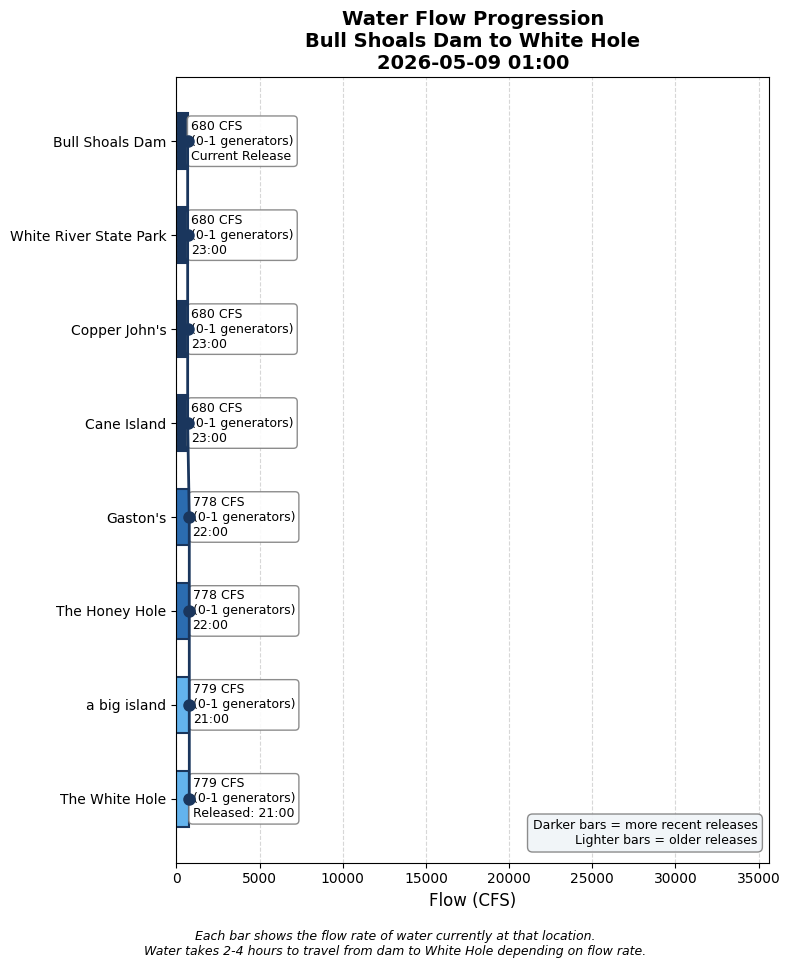
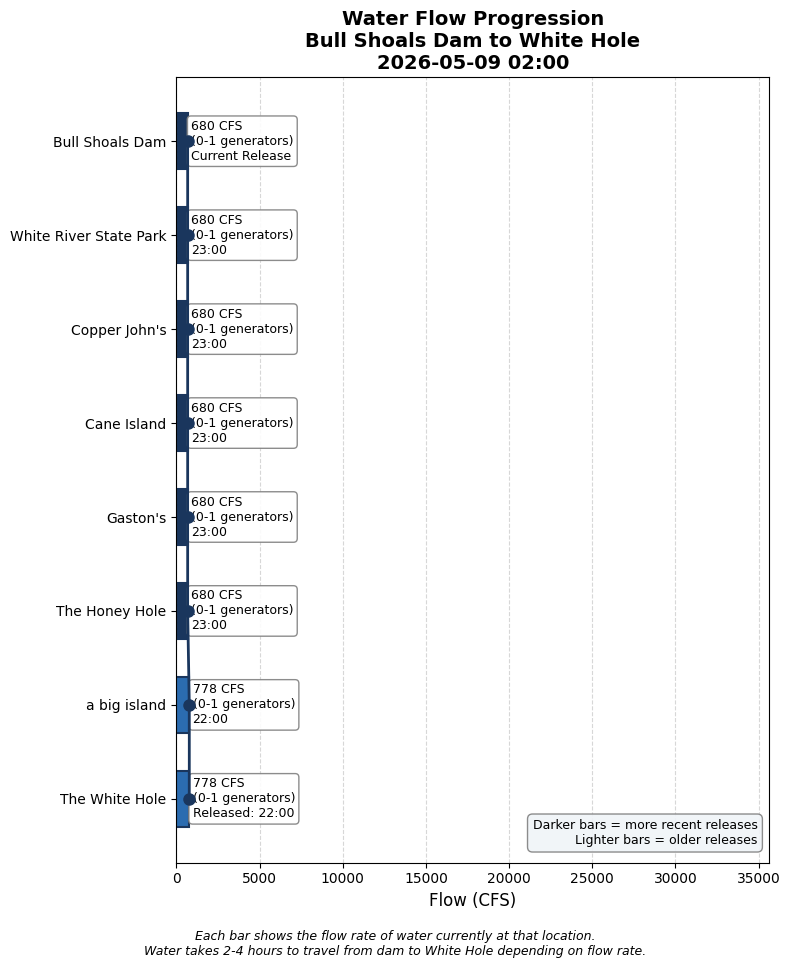
Update water conditions 2026-05-09 02:00

Changed region(s): [[0.2127, 0.4959, 0.3949, 0.8678]]

diff --git a/white_hole_conditions.html b/white_hole_conditions.html
@@ -3,7 +3,7 @@
 <head>
     <meta charset="UTF-8">
     <meta name="viewport" content="width=device-width, initial-scale=1.0">
-    <title>White Hole Conditions - 2026-05-09 01:00</title>
+    <title>White Hole Conditions - 2026-05-09 02:00</title>
     <style>
         body {
             font-family: -apple-system, BlinkMacSystemFont, 'Segoe UI', Roboto, sans-serif;
@@ -148,7 +148,7 @@
 </head>
 <body>
     <h1>White Hole Current Conditions</h1>
-    <p class="subtitle">Saturday, May 09, 2026 at 01:00 AM</p>
+    <p class="subtitle">Saturday, May 09, 2026 at 02:00 AM</p>
 
     <!-- HEADLINE BANNER -->
     <div class="headline-banner">
@@ -160,7 +160,7 @@
     <!-- CURRENT CONDITIONS -->
     <div class="current-conditions">
         <h3>Current Conditions at White Hole</h3>
-        <div class="flow-display">779 CFS</div>
+        <div class="flow-display">778 CFS</div>
         <div class="generator-display">Equivalent to 0-1 generators</div>
         <div class="condition-pills">
             <span class="pill wading">Excellent Wading</span>
@@ -189,6 +189,14 @@
                 <tr><td colspan="3" style="padding: 8px 10px; font-size: 0.8em; font-weight: bold; color: #6b46c1; text-transform: uppercase; letter-spacing: 0.05em; background-color: #f3e8ff;">Scheduled (SWPA forecast)</td></tr>
                 
                     <tr style="background-color: #faf5ff; ">
+                        <td style="padding: 10px; font-weight: bold;">5 AM</td>
+                        <td style="padding: 10px;">723 CFS<br><small style="color: #666;">(0-1 generators: 473 generation + 250 min flow)</small></td>
+                        <td style="padding: 10px;">~8:44 AM
+                            <span style="display: inline-block; margin-left: 6px; padding: 2px 8px; border-radius: 12px; font-size: 0.8em; background-color: #d1fae5; color: #065f46;">Excellent Wading</span>
+                        </td>
+                    </tr>
+                
+                    <tr style="background-color: #faf5ff; ">
                         <td style="padding: 10px; font-weight: bold;">4 AM</td>
                         <td style="padding: 10px;">723 CFS<br><small style="color: #666;">(0-1 generators: 473 generation + 250 min flow)</small></td>
                         <td style="padding: 10px;">~7:44 AM
@@ -212,14 +220,6 @@
                         </td>
                     </tr>
                 
-                    <tr style="background-color: #faf5ff; ">
-                        <td style="padding: 10px; font-weight: bold;">1 AM</td>
-                        <td style="padding: 10px;">723 CFS<br><small style="color: #666;">(0-1 generators: 473 generation + 250 min flow)</small></td>
-                        <td style="padding: 10px;">~4:44 AM
-                            <span style="display: inline-block; margin-left: 6px; padding: 2px 8px; border-radius: 12px; font-size: 0.8em; background-color: #d1fae5; color: #065f46;">Excellent Wading</span>
-                        </td>
-                    </tr>
-                
             
                     
                 <tr><td colspan="3" style="padding: 8px 10px; font-size: 0.8em; font-weight: bold; color: #2b6cb0; text-transform: uppercase; letter-spacing: 0.05em; background-color: #ebf8ff;">Actual (dam readings)</td></tr>
@@ -227,18 +227,12 @@
                     <tr style="background-color: #ebf8ff;">
                         <td style="padding: 10px; font-weight: bold;">11:00 PM</td>
                         <td style="padding: 10px;">680 CFS<br><small style="color: #666;">(0-1 generators)</small></td>
-                        <td style="padding: 10px;"><span style="color: #2b6cb0;">→ Arrives ~2:44 AM (in 103 min)</span></td>
-                    </tr>
-                
-                    <tr style="background-color: #ebf8ff;">
-                        <td style="padding: 10px; font-weight: bold;">10:00 PM</td>
-                        <td style="padding: 10px;">778 CFS<br><small style="color: #666;">(0-1 generators)</small></td>
-                        <td style="padding: 10px;"><span style="color: #2b6cb0;">→ Arrives ~1:44 AM (in 43 min)</span></td>
+                        <td style="padding: 10px;"><span style="color: #2b6cb0;">→ Arrives ~2:44 AM (in 43 min)</span></td>
                     </tr>
                 
                     <tr style="background-color: #e6fffa;">
-                        <td style="padding: 10px; font-weight: bold;">9:00 PM</td>
-                        <td style="padding: 10px;">779 CFS<br><small style="color: #666;">(0-1 generators)</small></td>
+                        <td style="padding: 10px; font-weight: bold;">10:00 PM</td>
+                        <td style="padding: 10px;">778 CFS<br><small style="color: #666;">(0-1 generators)</small></td>
                         <td style="padding: 10px;"><span style="color: #319795; font-weight: bold;">← AT WHITE HOLE NOW</span></td>
                     </tr>
                 
@@ -276,7 +270,7 @@
             <ul>
                 <li>Latest dam reading: 680 CFS at 2026-05-08 23:00</li>
                 <li>Travel time to White Hole: 3.7 hours at current flow</li>
-                <li>White Hole conditions based on dam reading from: 2026-05-08 21:00</li>
+                <li>White Hole conditions based on dam reading from: 2026-05-08 22:00</li>
             </ul>
         </div>
     </details>
@@ -361,13 +355,6 @@
                     <td style="padding: 8px; text-align: right;">3.7</td>
                 </tr>
                 
-                <tr style="border-bottom: 1px solid #eee;">
-                    <td style="padding: 8px;">2026-05-08 14:00</td>
-                    <td style="padding: 8px; text-align: right;">760</td>
-                    <td style="padding: 8px; text-align: right;">0.2</td>
-                    <td style="padding: 8px; text-align: right;">3.7</td>
-                </tr>
-                
                     </tbody>
                 </table>
             </div>
@@ -375,7 +362,7 @@
         
 
     <div class="timestamp">
-        Data retrieved and processed on 2026-05-09 01:00:08
+        Data retrieved and processed on 2026-05-09 02:00:08
     </div>
 </body>
 </html>
